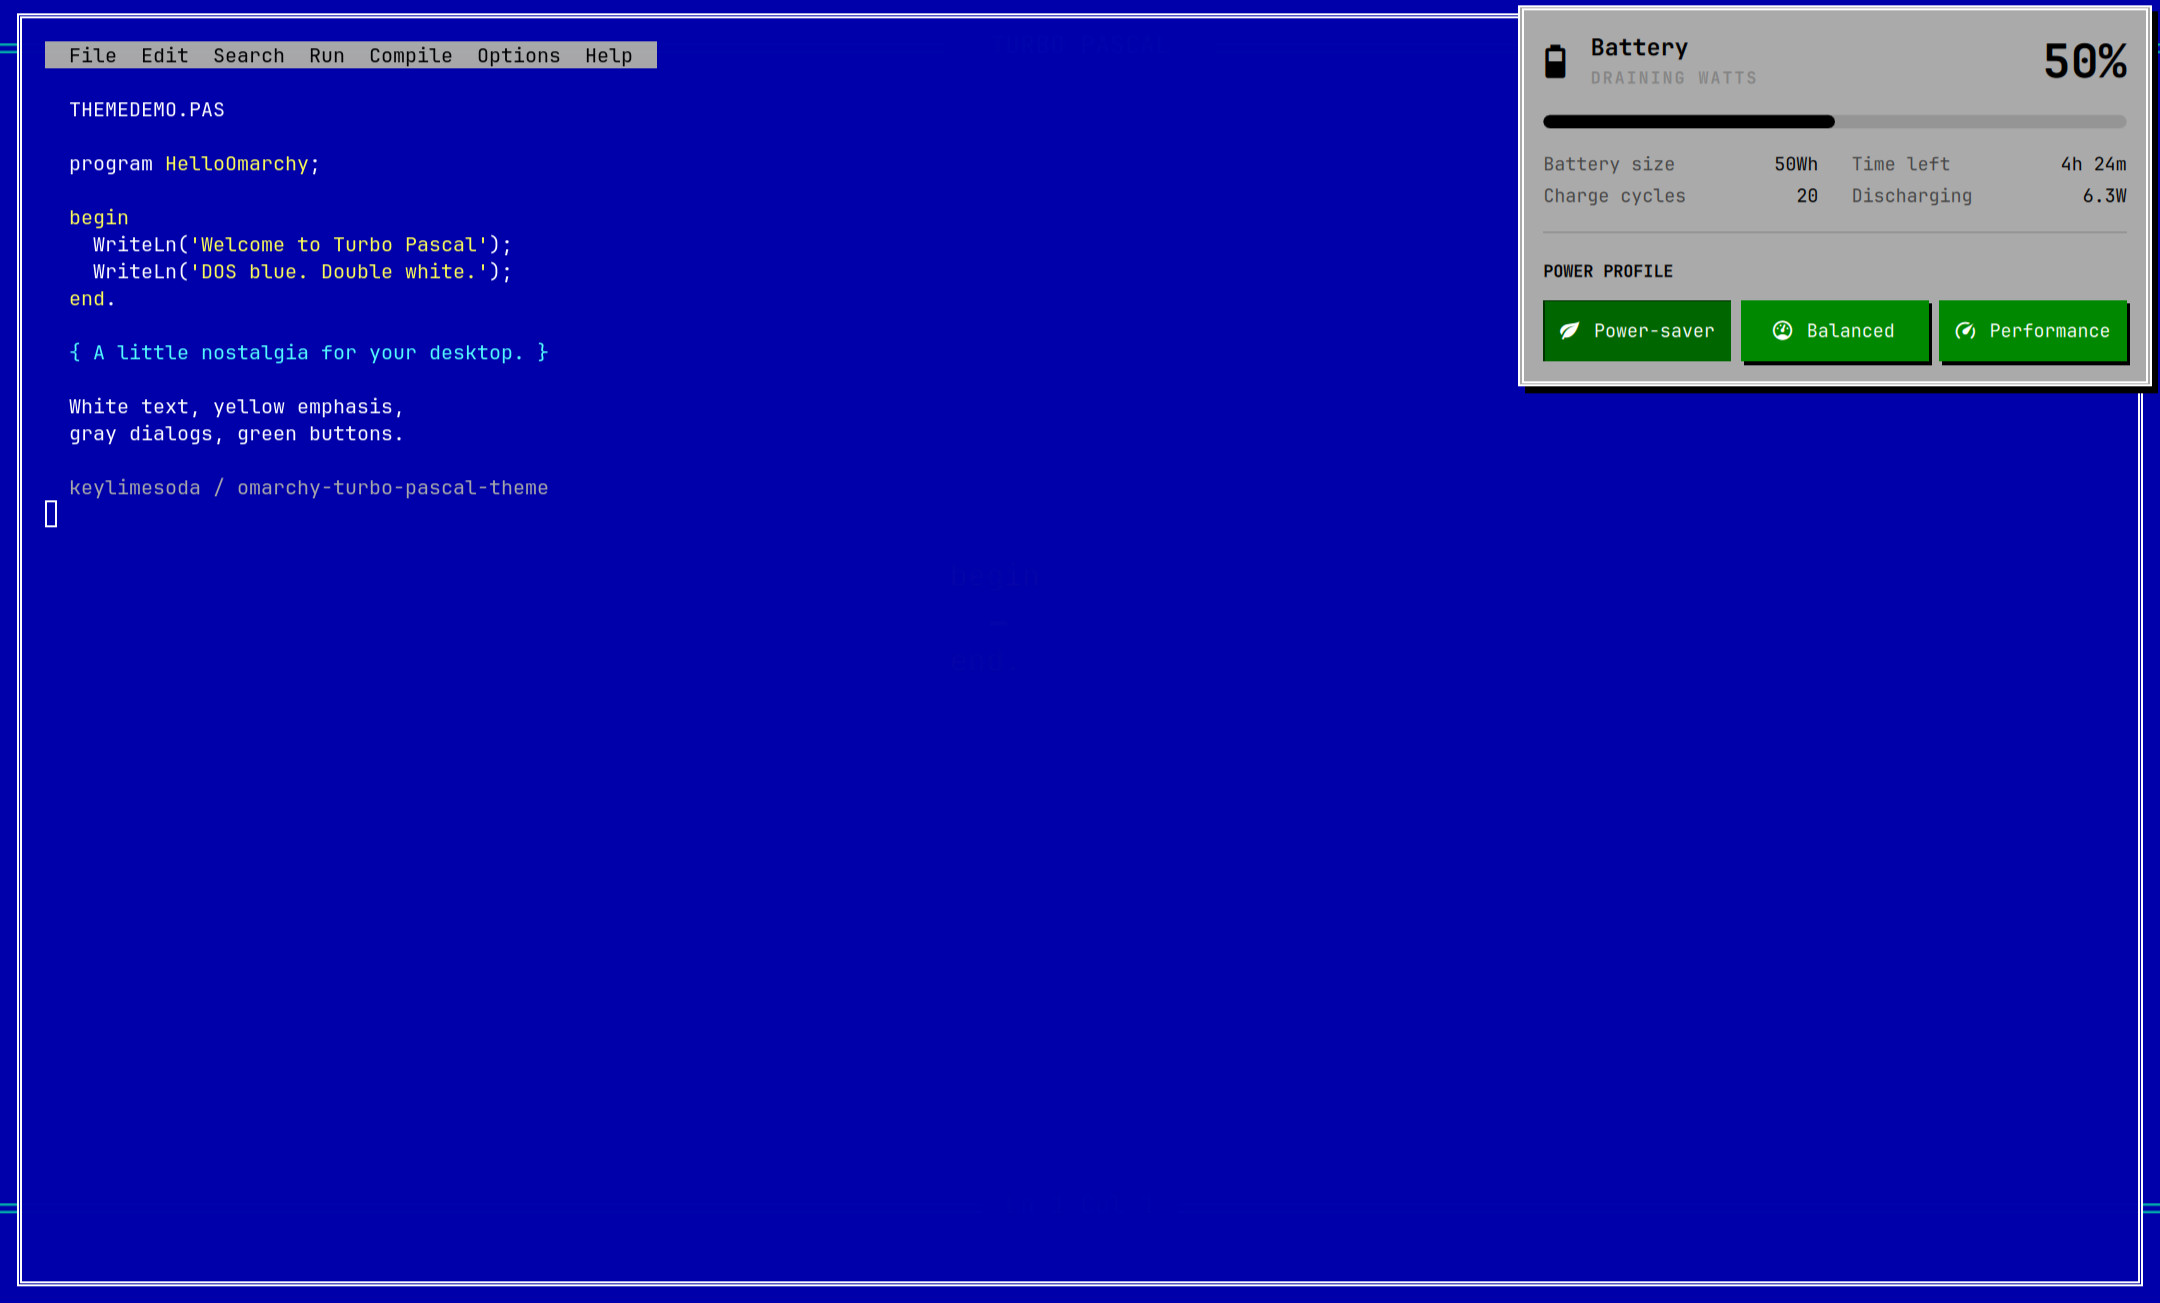
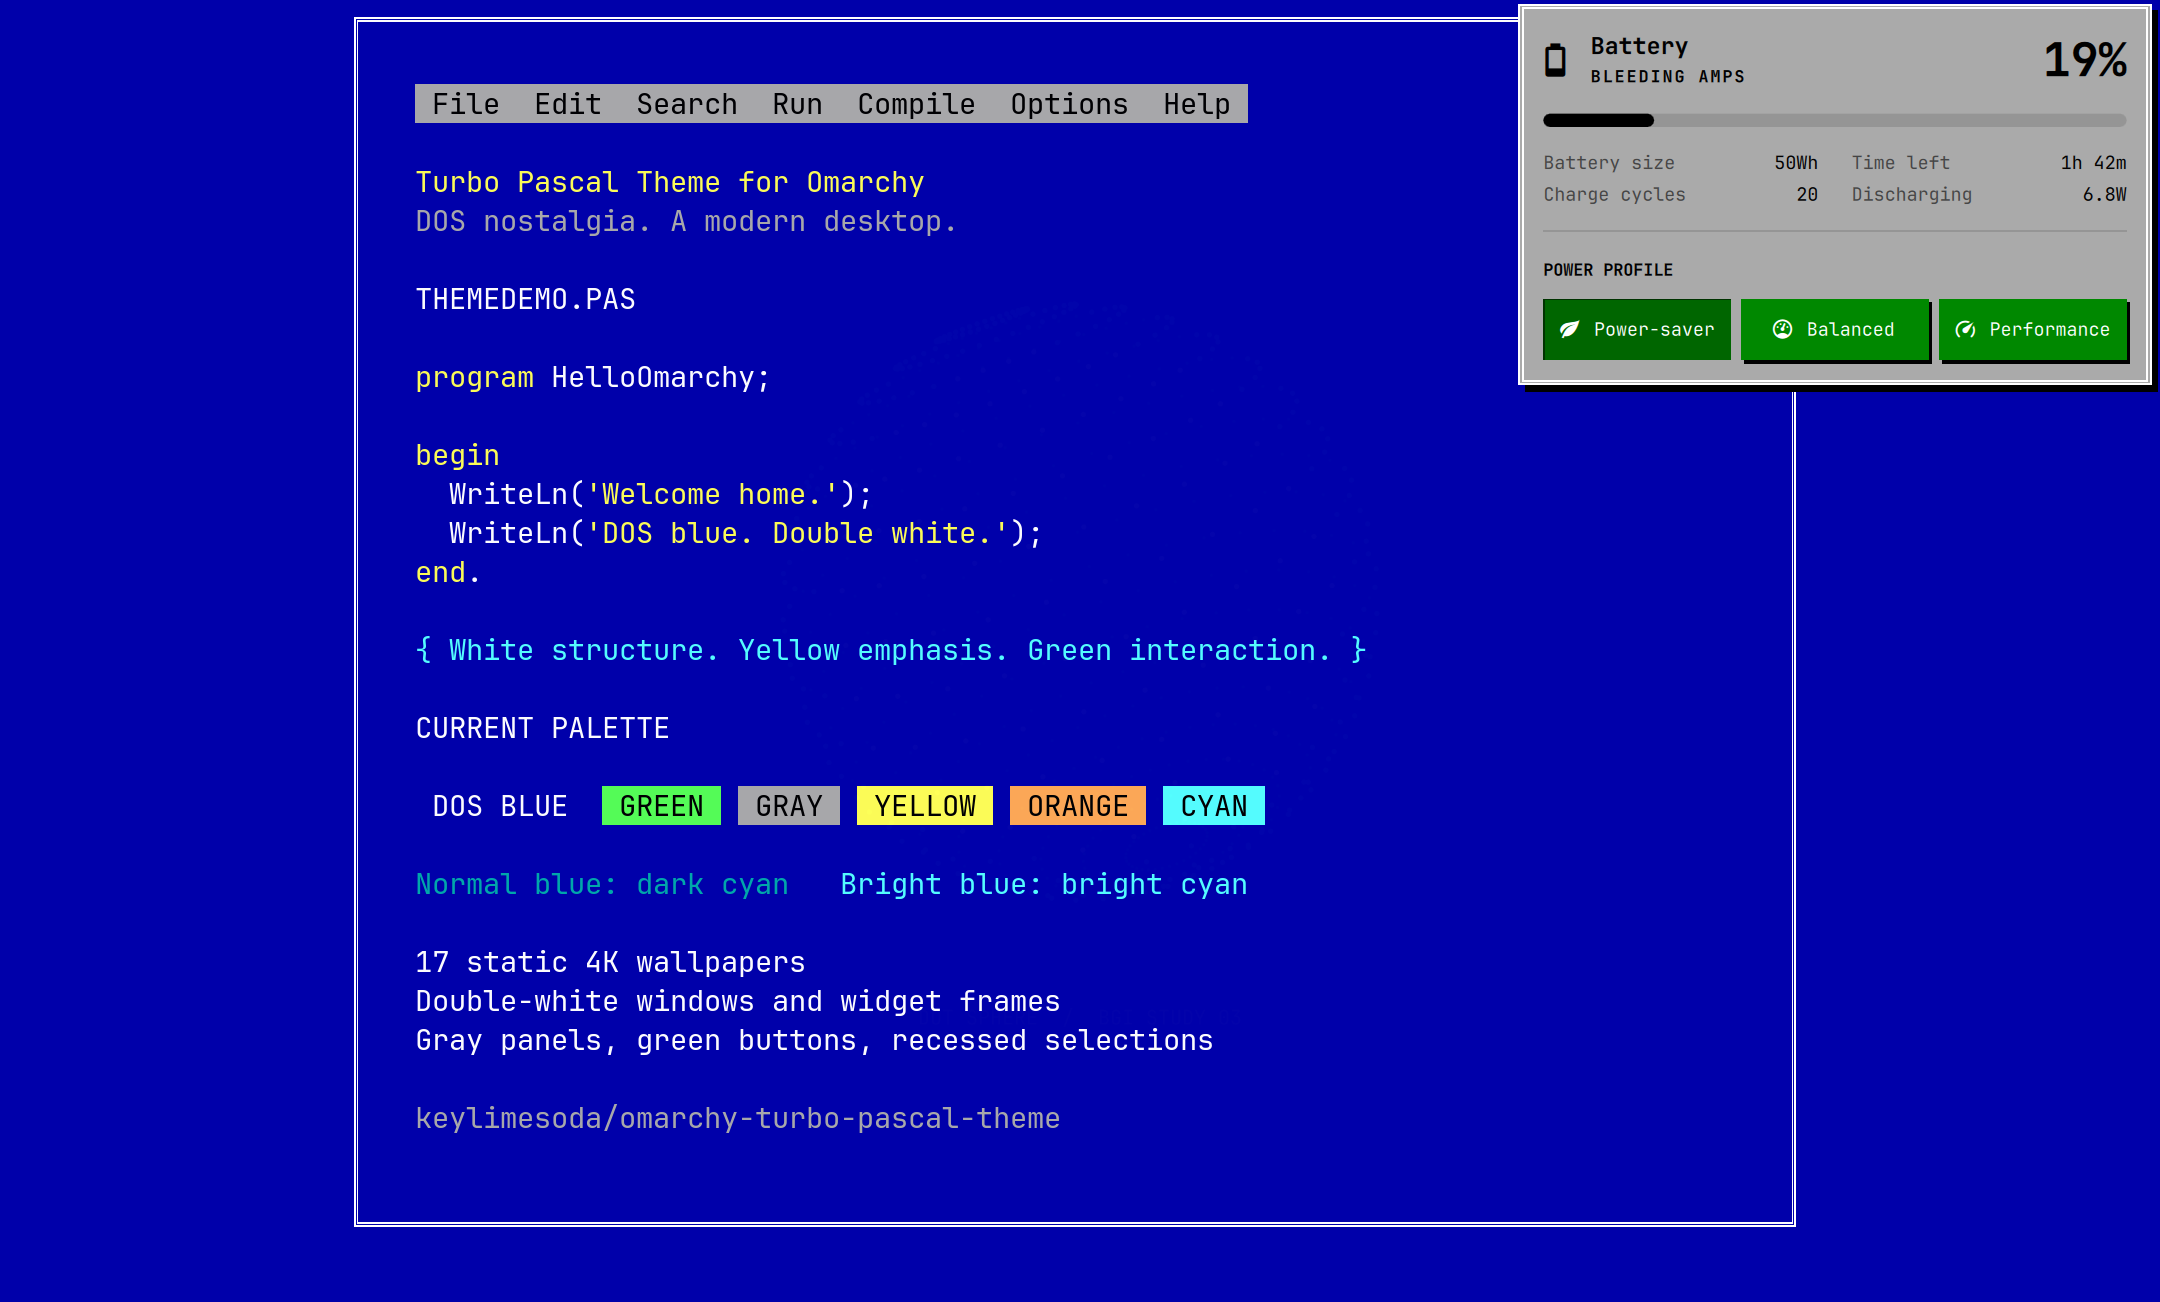
Refresh desktop previews and clarify theme title

diff --git a/README.md b/README.md
@@ -1,10 +1,13 @@
-# Turbo Pascal for Omarchy
+# Turbo Pascal Theme for Omarchy
 
 DOS-blue workspaces, gray dialogs, green buttons, and **double-white borders**.
 An Omarchy theme inspired by Turbo Pascal's DOS IDE, with an optional companion
 installer that brings the window and widget frames along for the ride.
 
-![Turbo Pascal theme with double-white borders](docs/preview.png)
+![Turbo Pascal Theme for Omarchy: DOS blue, yellow accents, gray panels, green buttons, and double-white borders](docs/preview.png)
+
+The terminal preview uses illustrative Pascal text and the theme's actual ANSI
+palette.
 
 ## What's included
 
@@ -29,6 +32,8 @@ installer that brings the window and widget frames along for the ride.
 
 The frame styling and widget enhancements require the companion installer.
 The palette works on its own.
+
+![Dot-sphere wallpaper with a double-white widget frame, gray panel, and raised and recessed green buttons](docs/desktop.png)
 
 ## Full experience
 
